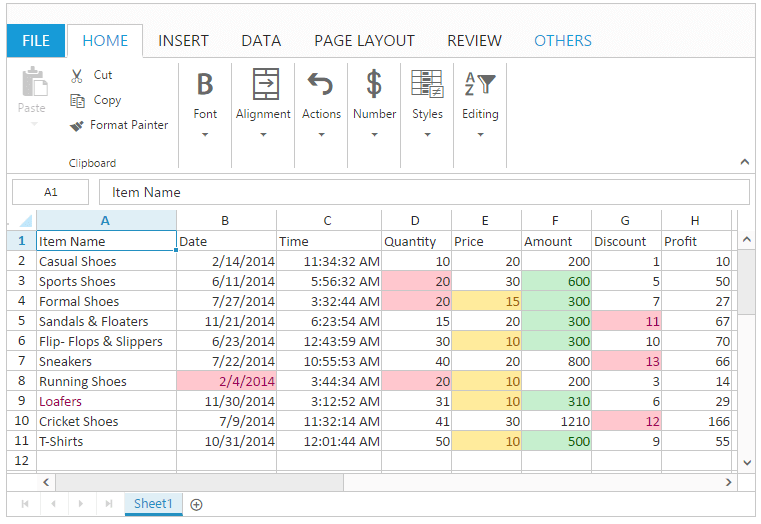
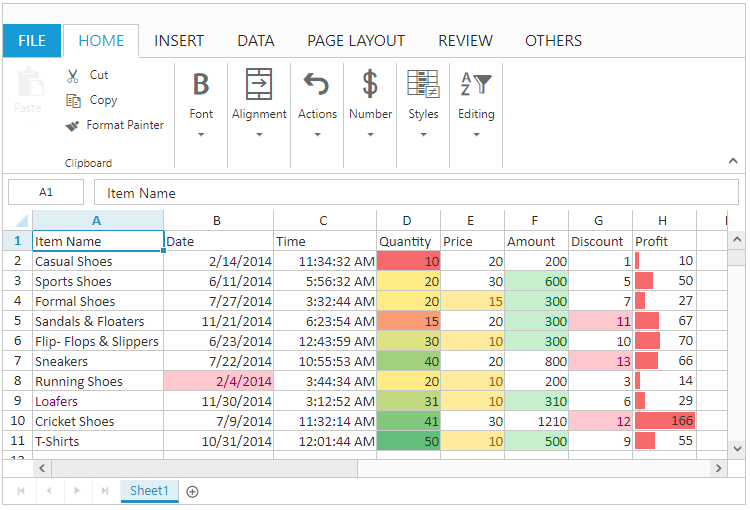
documentation(JS-63278): Spreadsheet conditional formatting content added

Changed region(s): [[0.0, 0.0, 1.0, 1.0], [0.092, 0.1176, 0.2453, 0.2647]]

diff --git a/js/Spreadsheet/Data-Presentation.md b/js/Spreadsheet/Data-Presentation.md
@@ -99,15 +99,15 @@ You can perform the following customizations for chart. These are available in D
 
 <table>
     <colgroup><col width="180px" /></colgroup>
-    <tr><th>Feature</br></th><th>API</br></th><th>Description</br></th></tr>
-    <tr><td>Add Chart Elements</br></td><td>{{'[`updateChartElement`](https://help.syncfusion.com/api/js/ejspreadsheet#methods:xlchart-updatechartelement  "updateChartElement")'| markdownify }}</br></td><td>You can add a chart element like chart axes, legends, chart title, axis title, data labels and grid lines.</br></td></tr>
-    <tr><td>Switch Row/Column</br></td><td>{{'[`switchRowColumn`](https://help.syncfusion.com/api/js/ejspreadsheet#methods:xlchart-switchrowcolumn  "switchRowColumn")'| markdownify }}</br></td><td>You can switch the row of the chart to column of the chart and vice versa.</br></td></tr>
-    <tr><td>Select Data</br></td><td>{{'[`changeDataRange`](https://help.syncfusion.com/api/js/ejspreadsheet#methods:xlchart-changedatarange  "changeDataRange")'| markdownify }}</br></td><td>You can modify the data source of Chart.</br></td></tr>
-    <tr><td>Chart Type</br></td><td>{{'[`changeType`](https://help.syncfusion.com/api/js/ejspreadsheet#methods:xlchart-changetype  "changeType")'| markdownify }}</br></td><td>You can change the type of the chart using Chart Type dialog.</br></td></tr>
-    <tr><td>Height and Width</br></td><td>{{'[`height`](https://help.syncfusion.com/api/js/ejspreadsheet#members:chartsettings-height  "height")'| markdownify }} and {{'[`width`](https://help.syncfusion.com/api/js/ejspreadsheet#members:chartsettings-width  "width")'| markdownify }}</br></td><td>You can change the height and width of the chart.</br></td></tr>
-    <tr><td>Chart Themes</br></td><td>{{'[`changeTheme`](https://help.syncfusion.com/api/js/ejspreadsheet#methods:xlchart-changetheme "changeTheme")'| markdownify }}</br></td><td>You can change the theme of the chart. The available themes are saffron, lemon and azure in dark, light themes.</br></td></tr>
-    <tr><td>Refresh Chart</br></td><td>{{'[`refreshChart`](https://help.syncfusion.com/api/js/ejspreadsheet#methods:xlchart-refreshchart  "refreshChart")'| markdownify }}</br></td><td>To refresh the chart in the Spreadsheet.</br></td></tr>
-    <tr><td>Resize Chart</br></td><td>{{'[`resizeChart`](https://help.syncfusion.com/api/js/ejspreadsheet#methods:xlchart-resizechart  "resizeChart")'| markdownify }}</br></td><td>To resize the chart of specified id in the Spreadsheet.</br></td></tr>
+    <tr><th>Feature</th><th>API</th><th>Description</th></tr>
+    <tr><td>Add Chart Elements</td><td>{{'[`updateChartElement`](https://help.syncfusion.com/api/js/ejspreadsheet#methods:xlchart-updatechartelement  "updateChartElement")'| markdownify }}</td><td>You can add a chart element like chart axes, legends, chart title, axis title, data labels and grid lines.</td></tr>
+    <tr><td>Switch Row/Column</td><td>{{'[`switchRowColumn`](https://help.syncfusion.com/api/js/ejspreadsheet#methods:xlchart-switchrowcolumn  "switchRowColumn")'| markdownify }}</td><td>You can switch the row of the chart to column of the chart and vice versa.</td></tr>
+    <tr><td>Select Data</td><td>{{'[`changeDataRange`](https://help.syncfusion.com/api/js/ejspreadsheet#methods:xlchart-changedatarange  "changeDataRange")'| markdownify }}</td><td>You can modify the data source of Chart.</td></tr>
+    <tr><td>Chart Type</td><td>{{'[`changeType`](https://help.syncfusion.com/api/js/ejspreadsheet#methods:xlchart-changetype  "changeType")'| markdownify }}</td><td>You can change the type of the chart using Chart Type dialog.</td></tr>
+    <tr><td>Height and Width</td><td>{{'[`height`](https://help.syncfusion.com/api/js/ejspreadsheet#members:chartsettings-height  "height")'| markdownify }} and {{'[`width`](https://help.syncfusion.com/api/js/ejspreadsheet#members:chartsettings-width  "width")'| markdownify }}</td><td>You can change the height and width of the chart.</td></tr>
+    <tr><td>Chart Themes</td><td>{{'[`changeTheme`](https://help.syncfusion.com/api/js/ejspreadsheet#methods:xlchart-changetheme "changeTheme")'| markdownify }}</td><td>You can change the theme of the chart. The available themes are saffron, lemon and azure in dark, light themes.</td></tr>
+    <tr><td>Refresh Chart</td><td>{{'[`refreshChart`](https://help.syncfusion.com/api/js/ejspreadsheet#methods:xlchart-refreshchart  "refreshChart")'| markdownify }}</td><td>To refresh the chart in the Spreadsheet.</td></tr>
+    <tr><td>Resize Chart</td><td>{{'[`resizeChart`](https://help.syncfusion.com/api/js/ejspreadsheet#methods:xlchart-resizechart  "resizeChart")'| markdownify }}</td><td>To resize the chart of specified id in the Spreadsheet.</td></tr>
 </table>
 
 The following code example describes the above behavior.
@@ -167,7 +167,7 @@ The following code example describes the above behavior.
 
 {% highlight javascript %}
 $(function () {
-`   $("#Spreadsheet").ejSpreadsheet({
+   $("#Spreadsheet").ejSpreadsheet({
         // the datasource "window.defaultData" is referred from 'http://js.syncfusion.com/demos/web/scripts/xljsondata.min.js'
         sheets: [{
             rangeSettings: [{ dataSource: window.defaultData}],                               
@@ -182,9 +182,10 @@ function loadComplete() {
         excelFormat.setCFRule({ "action": "greaterthan", "inputs": ["10"], "color": "redft", "range": "G2:G11" });
         excelFormat.setCFRule({ "action": "lessthan", "inputs": ["20"], "color": "yellowft", "range": "E1:E11" });
         excelFormat.setCFRule({ "action": "between", "inputs": ["300", "600"], "color": "greenft", "range": "F2:F11" });
-        excelFormat.setCFRule({ "action": "equalto", "inputs": ["20"], "color": "redf", "range": "D2:D11" });
         excelFormat.setCFRule({ "action": "textcontains", "inputs": ["loafers"], "color": "redt", "range": "A1:A11" });
         excelFormat.setCFRule({ "action": "dateoccur", "inputs": ["02/04/2014"], "color": "redft", "range": "B1:B11" });
+		excelFormat.setCFRule({ "action": "databar", "color": "redft", "range": "H1:H11" });
+		excelFormat.setCFRule({action: ej.Spreadsheet.CFormatRule.ColorScale, color: ej.Spreadsheet.ColorScale.GreenYellowRed, range: "D2:D11"});
     }
 }
 {% endhighlight %}
@@ -346,11 +347,11 @@ You can perform the following customizations for picture. These are available in
 
 <table>
     <colgroup><col width="150px" /></colgroup>
-    <tr><th>Feature</br></th><th>API</br></th><th>Description</br></th></tr>
-    <tr><td>Change Picture</br></td><td> {{'[`changePicture`](https://help.syncfusion.com/api/js/ejspreadsheet#methods:xlshape-changepicture  "changePicture")'| markdownify }}</br></td><td>You can change the picture with existing picture.</br></td></tr>
-    <tr><td>Reset Picture</br></td><td> {{'[`resetPicture`](https://help.syncfusion.com/api/js/ejspreadsheet#methods:xlshape-resetpicture  "resetPicture")'| markdownify }}</br></td><td>You can reset the changes done in the picture such as border changes, height and width changes.</br></td></tr>
-    <tr><td>Picture Border</br></td><td> {{'[`changePictureBorder`](https://help.syncfusion.com/api/js/ejspreadsheet#methods:xlshape-changepictureborder  "changePictureBorder")'| markdownify }}</br></td><td>You can add border to the picture. You have Border Color, Border Type and Border weight options to draw a border.</br></td></tr>
-    <tr><td>Height and Width</br></td><td> {{'[`height`](https://help.syncfusion.com/api/js/ejspreadsheet#members:picturesettings-height  "height")'| markdownify }} and {{'[`width`](https://help.syncfusion.com/api/js/ejspreadsheet#members:picturesettings-width  "width")'| markdownify }}</br></td><td>You can change the height and width of the picture.</br></td></tr>
+    <tr><th>Feature</th><th>API</th><th>Description</th></tr>
+    <tr><td>Change Picture</td><td> {{'[`changePicture`](https://help.syncfusion.com/api/js/ejspreadsheet#methods:xlshape-changepicture  "changePicture")'| markdownify }}</td><td>You can change the picture with existing picture.</td></tr>
+    <tr><td>Reset Picture</td><td> {{'[`resetPicture`](https://help.syncfusion.com/api/js/ejspreadsheet#methods:xlshape-resetpicture  "resetPicture")'| markdownify }}</td><td>You can reset the changes done in the picture such as border changes, height and width changes.</td></tr>
+    <tr><td>Picture Border</td><td> {{'[`changePictureBorder`](https://help.syncfusion.com/api/js/ejspreadsheet#methods:xlshape-changepictureborder  "changePictureBorder")'| markdownify }}</td><td>You can add border to the picture. You have Border Color, Border Type and Border weight options to draw a border.</td></tr>
+    <tr><td>Height and Width</td><td> {{'[`height`](https://help.syncfusion.com/api/js/ejspreadsheet#members:picturesettings-height  "height")'| markdownify }} and {{'[`width`](https://help.syncfusion.com/api/js/ejspreadsheet#members:picturesettings-width  "width")'| markdownify }}</td><td>You can change the height and width of the picture.</td></tr>
 </table>
 
 ## Pivot Table
@@ -481,13 +482,13 @@ You can perform the following customizations for table. These are available in D
 
 <table>
     <colgroup><col width="150px" /></colgroup>
-    <tr><th>Feature</br></th><th>Description</br></th></tr>
-    <tr><td>Resize Table</br></td><td>You can resize the table only to increase row count.</br></td></tr>
-    <tr><td>Convert to Range</br></td><td>You can remove the table using this option.</br></td></tr>
-    <tr><td>First Column</br></td><td>You can highlight the first column of the table.</br></td></tr>
-    <tr><td>Last Column</br></td><td>You can highlight the last column of the table.</br></td></tr>
-    <tr><td>Total Row</br></td><td>You can insert a new row in the bottom of the table to display the total value of the last column. You can toggle this by using checkbox.</br></td></tr>
-    <tr><td>Filter Button</br></td><td>You can able to hide or unhide the filter icons in the filter header of a table.</br></td></tr>
+    <tr><th>Feature</th><th>Description</th></tr>
+    <tr><td>Resize Table</td><td>You can resize the table only to increase row count.</td></tr>
+    <tr><td>Convert to Range</td><td>You can remove the table using this option.</td></tr>
+    <tr><td>First Column</td><td>You can highlight the first column of the table.</td></tr>
+    <tr><td>Last Column</td><td>You can highlight the last column of the table.</td></tr>
+    <tr><td>Total Row</td><td>You can insert a new row in the bottom of the table to display the total value of the last column. You can toggle this by using checkbox.</td></tr>
+    <tr><td>Filter Button</td><td>You can able to hide or unhide the filter icons in the filter header of a table.</td></tr>
 </table>
 
 The following code example describes the above behavior.

diff --git a/js/Spreadsheet/Ribbon.md b/js/Spreadsheet/Ribbon.md
@@ -45,24 +45,24 @@ You can also customize the ribbon by using the following methods.
 
 <table>
     <colgroup><col width="180px" /></colgroup>
-    <tr><th>Feature</br></th><th>Method Name</br></th><th>Description</br></th></tr>
-    <tr><td>Add BackStage Item</br></td><td>{{'[`addBackStageItem`](https://help.syncfusion.com/api/js/ejspreadsheet#methods:xlribbon-addbackstageitem  "addBackStageItem")'| markdownify }}</br></td><td>To add a new item in the backstage.</br></td></tr>
-    <tr><td>Add Contextual Tabs</br></td><td>{{'[`addContextualTabs`](https://help.syncfusion.com/api/js/ejspreadsheet#methods:xlribbon-addcontextualtabs  "addContextualTabs")'| markdownify }}</br></td><td>To add the contextual tabs in the ribbon.</br></td></tr>
-    <tr><td>Add Menu Item </br></td><td>{{'[`addMenuItem `](https://help.syncfusion.com/api/js/ejspreadsheet#methods:xlribbon-addmenuitem  "addMenuItem ")'| markdownify }}</br></td><td>To dynamically add the menu item in the file menu.</br></td></tr>
-    <tr><td>Add Tab  </br></td><td>{{'[`addTab  `](https://help.syncfusion.com/api/js/ejspreadsheet#methods:xlribbon-addtab  "addTab")'| markdownify }}</br></td><td>To dynamically add the tab in the ribbon.</br></td></tr>
-    <tr><td>Add Tab Group  </br></td><td>{{'[`addTabGroup`](https://help.syncfusion.com/api/js/ejspreadsheet#methods:xlribbon-addtabgroup  "addTabGroup")'| markdownify }}</br></td><td>To dynamically add the tab group in the ribbon.</br></td></tr>
-    <tr><td>Auto Sum  </br></td><td>{{'[`autoSum  `](https://help.syncfusion.com/api/js/ejspreadsheet#methods:xlribbon-autosum  "autoSum")'| markdownify }}</br></td><td>To insert the few type (SUM, MAX, MIN, AVG, COUNT) of formulas in the selected range of cells in the Spreadsheet.</br></td></tr>
-    <tr><td>Change Dimension</br></td><td>{{'[`changeDimension`](https://help.syncfusion.com/api/js/ejspreadsheet#methods:xlribbon-changedimension  "changeDimension")'| markdownify }}</br></td><td>To change the dimensions for chart/picture.</br></td></tr>
-    <tr><td>Disable Ribbon Items</br></td><td>{{'[`disableRibbonItems`](https://help.syncfusion.com/api/js/ejspreadsheet#methods:xlribbon-disableribbonitems  "disableRibbonItems  ")'| markdownify }}</br></td><td>To disable ribbon items in the Spreadsheet.</br></td></tr>
-    <tr><td>Enable Ribbon Items</br></td><td>{{'[`enableRibbonItems`](https://help.syncfusion.com/api/js/ejspreadsheet#methods:xlribbon-enableribbonitems  "enableRibbonItems  ")'| markdownify }}</br></td><td>To enable ribbon items in the Spreadsheet.</br></td></tr>
-    <tr><td>Hide Menu</br></td><td>{{'[`hideMenu  `](https://help.syncfusion.com/api/js/ejspreadsheet#methods:xlribbon-hidemenu  "hideMenu")'| markdownify }}</br></td><td>To hide the file menu in the ribbon tab.</br></td></tr>
-    <tr><td>Remove BackStage Item</br></td><td>{{'[`removeBackStageItem`](https://help.syncfusion.com/api/js/ejspreadsheet#methods:xlribbon-removebackstageitem  "removeBackStageItem  ")'| markdownify }}</br></td><td>To remove the item from the backstage in the Spreadsheet.</br></td></tr>
-    <tr><td>Remove Menu Item</br></td><td>{{'[`removeMenuItem`](https://help.syncfusion.com/api/js/ejspreadsheet#methods:xlribbon-removemenuitem  "removeMenuItem")'| markdownify }}</br></td><td>To remove the menu item from file menu in Spreadsheet.</br></td></tr>
-    <tr><td>Remove Tab</br></td><td>{{'[`removeTab`](https://help.syncfusion.com/api/js/ejspreadsheet#methods:xlribbon-removetab "removeTab")'| markdownify }}</br></td><td>To remove the tab from ribbon in the spreadsheet.</br></td></tr>
-    <tr><td>Remove Tab Group</br></td><td>{{'[`removeTabGroup`](https://help.syncfusion.com/api/js/ejspreadsheet#methods:xlribbon-removetabgroup "removeTabGroup")'| markdownify }}</br></td><td>To remove the tab group from ribbon in the Spreadsheet.</br></td></tr>
-    <tr><td>Show Menu</br></td><td>{{'[`showMenu`](https://help.syncfusion.com/api/js/ejspreadsheet#methods:xlribbon-showmenu "showMenu")'| markdownify }}</br></td><td>To show the file menu in the ribbon tab.</br></td></tr>
-    <tr><td>Update Menu Item</br></td><td>{{'[`updateMenuItem`](https://help.syncfusion.com/api/js/ejspreadsheet#methods:xlribbon-updatemenuitem "updateMenuItem")'| markdownify }}</br></td><td>To update the menu item in the file menu.</br></td></tr>
-    <tr><td>Update Ribbon Icons</br></td><td>{{'[`updateRibbonIcons`](https://help.syncfusion.com/api/js/ejspreadsheet#methods:xlribbon-updateribbonicons "updateRibbonIcons")'| markdownify }}</br></td><td>To update the ribbon icons in the Spreadsheet.</br></td></tr>
+    <tr><th>Feature</th><th>Method Name</th><th>Description</th></tr>
+    <tr><td>Add BackStage Item</td><td>{{'[`addBackStageItem`](https://help.syncfusion.com/api/js/ejspreadsheet#methods:xlribbon-addbackstageitem  "addBackStageItem")'| markdownify }}</td><td>To add a new item in the backstage.</td></tr>
+    <tr><td>Add Contextual Tabs</td><td>{{'[`addContextualTabs`](https://help.syncfusion.com/api/js/ejspreadsheet#methods:xlribbon-addcontextualtabs  "addContextualTabs")'| markdownify }}</td><td>To add the contextual tabs in the ribbon.</td></tr>
+    <tr><td>Add Menu Item </td><td>{{'[`addMenuItem `](https://help.syncfusion.com/api/js/ejspreadsheet#methods:xlribbon-addmenuitem  "addMenuItem ")'| markdownify }}</td><td>To dynamically add the menu item in the file menu.</td></tr>
+    <tr><td>Add Tab  </td><td>{{'[`addTab  `](https://help.syncfusion.com/api/js/ejspreadsheet#methods:xlribbon-addtab  "addTab")'| markdownify }}</td><td>To dynamically add the tab in the ribbon.</td></tr>
+    <tr><td>Add Tab Group  </td><td>{{'[`addTabGroup`](https://help.syncfusion.com/api/js/ejspreadsheet#methods:xlribbon-addtabgroup  "addTabGroup")'| markdownify }}</td><td>To dynamically add the tab group in the ribbon.</td></tr>
+    <tr><td>Auto Sum  </td><td>{{'[`autoSum  `](https://help.syncfusion.com/api/js/ejspreadsheet#methods:xlribbon-autosum  "autoSum")'| markdownify }}</td><td>To insert the few type (SUM, MAX, MIN, AVG, COUNT) of formulas in the selected range of cells in the Spreadsheet.</td></tr>
+    <tr><td>Change Dimension</td><td>{{'[`changeDimension`](https://help.syncfusion.com/api/js/ejspreadsheet#methods:xlribbon-changedimension  "changeDimension")'| markdownify }}</td><td>To change the dimensions for chart/picture.</td></tr>
+    <tr><td>Disable Ribbon Items</td><td>{{'[`disableRibbonItems`](https://help.syncfusion.com/api/js/ejspreadsheet#methods:xlribbon-disableribbonitems  "disableRibbonItems  ")'| markdownify }}</td><td>To disable ribbon items in the Spreadsheet.</td></tr>
+    <tr><td>Enable Ribbon Items</td><td>{{'[`enableRibbonItems`](https://help.syncfusion.com/api/js/ejspreadsheet#methods:xlribbon-enableribbonitems  "enableRibbonItems  ")'| markdownify }}</td><td>To enable ribbon items in the Spreadsheet.</td></tr>
+    <tr><td>Hide Menu</td><td>{{'[`hideMenu  `](https://help.syncfusion.com/api/js/ejspreadsheet#methods:xlribbon-hidemenu  "hideMenu")'| markdownify }}</td><td>To hide the file menu in the ribbon tab.</td></tr>
+    <tr><td>Remove BackStage Item</td><td>{{'[`removeBackStageItem`](https://help.syncfusion.com/api/js/ejspreadsheet#methods:xlribbon-removebackstageitem  "removeBackStageItem  ")'| markdownify }}</td><td>To remove the item from the backstage in the Spreadsheet.</td></tr>
+    <tr><td>Remove Menu Item</td><td>{{'[`removeMenuItem`](https://help.syncfusion.com/api/js/ejspreadsheet#methods:xlribbon-removemenuitem  "removeMenuItem")'| markdownify }}</td><td>To remove the menu item from file menu in Spreadsheet.</td></tr>
+    <tr><td>Remove Tab</td><td>{{'[`removeTab`](https://help.syncfusion.com/api/js/ejspreadsheet#methods:xlribbon-removetab "removeTab")'| markdownify }}</td><td>To remove the tab from ribbon in the spreadsheet.</td></tr>
+    <tr><td>Remove Tab Group</td><td>{{'[`removeTabGroup`](https://help.syncfusion.com/api/js/ejspreadsheet#methods:xlribbon-removetabgroup "removeTabGroup")'| markdownify }}</td><td>To remove the tab group from ribbon in the Spreadsheet.</td></tr>
+    <tr><td>Show Menu</td><td>{{'[`showMenu`](https://help.syncfusion.com/api/js/ejspreadsheet#methods:xlribbon-showmenu "showMenu")'| markdownify }}</td><td>To show the file menu in the ribbon tab.</td></tr>
+    <tr><td>Update Menu Item</td><td>{{'[`updateMenuItem`](https://help.syncfusion.com/api/js/ejspreadsheet#methods:xlribbon-updatemenuitem "updateMenuItem")'| markdownify }}</td><td>To update the menu item in the file menu.</td></tr>
+    <tr><td>Update Ribbon Icons</td><td>{{'[`updateRibbonIcons`](https://help.syncfusion.com/api/js/ejspreadsheet#methods:xlribbon-updateribbonicons "updateRibbonIcons")'| markdownify }}</td><td>To update the ribbon icons in the Spreadsheet.</td></tr>
 </table>
 
 

diff --git a/js/Spreadsheet/Sparkline.md b/js/Spreadsheet/Sparkline.md
@@ -34,10 +34,10 @@ You can perform the following customizations for Sparkline. These options are av
 
 <table>
     <colgroup><col width="180px" /></colgroup>
-    <tr><th>Feature</br></th><th>API</br></th><th>Description</br></th></tr>
-    <tr><td>Edit Data & Location Range</br></td><td>{{'[`createSparkline`](https://help.syncfusion.com/api/js/ejspreadsheet#methods:xlsparkline-createsparkline  "createSparkline")'| markdownify }}</br></td><td>You can modify the data range, location range of Sparkline </br></td></tr>
-    <tr><td>Sparkline Type</br></td><td>{{'[`changeType`](https://help.syncfusion.com/api/js/ejspreadsheet#methods:xlsparkline-changetype  "changeType")'| markdownify }}</br></td><td>You can change the type of sparkline by using sparkline type button.</br></td></tr>
-    <tr><td>High Point, First Point, Last Point, Low Point, Negative Point, Sparkline Color and Marker Color</br></td><td>{{'[`changePointColor`](https://help.syncfusion.com/api/js/ejspreadsheet#methods:xlsparkline-changepointcolor  "changePointColor")'| markdownify }}</br></td><td>You can high light the high point, low point, first point, last point, negative point and Marker Color of sparkline .</br></td></tr>
+    <tr><th>Feature</th><th>API</th><th>Description</th></tr>
+    <tr><td>Edit Data & Location Range</td><td>{{'[`createSparkline`](https://help.syncfusion.com/api/js/ejspreadsheet#methods:xlsparkline-createsparkline  "createSparkline")'| markdownify }}</td><td>You can modify the data range, location range of Sparkline </td></tr>
+    <tr><td>Sparkline Type</td><td>{{'[`changeType`](https://help.syncfusion.com/api/js/ejspreadsheet#methods:xlsparkline-changetype  "changeType")'| markdownify }}</td><td>You can change the type of sparkline by using sparkline type button.</td></tr>
+    <tr><td>High Point, First Point, Last Point, Low Point, Negative Point, Sparkline Color and Marker Color</td><td>{{'[`changePointColor`](https://help.syncfusion.com/api/js/ejspreadsheet#methods:xlsparkline-changepointcolor  "changePointColor")'| markdownify }}</td><td>You can high light the high point, low point, first point, last point, negative point and Marker Color of sparkline .</td></tr>
 </table>
 
 The following code example describes the above behavior,
